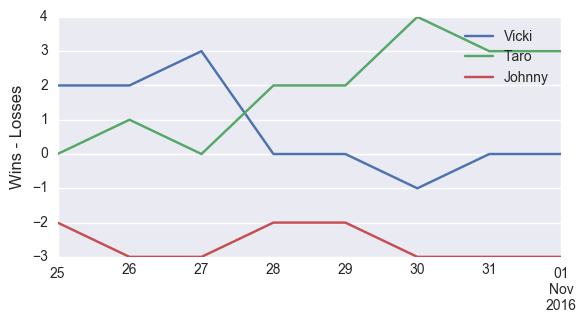
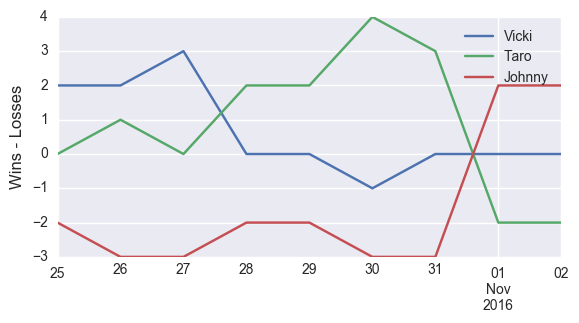
update 11/2

diff --git a/index.html b/index.html
@@ -35,32 +35,32 @@
 <a id="the-bet-is-on" class="anchor" href="#the-bet-is-on" aria-hidden="true"><span aria-hidden="true" class="octicon octicon-link"></span></a>The bet is on.</h1>
 
 <h1>
-<a id="current-winner-of-2016-17-season" class="anchor" href="#current-winner-of-2016-17-season" aria-hidden="true"><span aria-hidden="true" class="octicon octicon-link"></span></a>Current winner of 2016-17 Season (as of 11/1/2016):</h1>
+<a id="current-winner-of-2016-17-season" class="anchor" href="#current-winner-of-2016-17-season" aria-hidden="true"><span aria-hidden="true" class="octicon octicon-link"></span></a>Current winner of 2016-17 Season (as of 11/2/2016):</h1>
 
 <h2>
-<a id="none" class="anchor" href="#none" aria-hidden="true"><span aria-hidden="true" class="octicon octicon-link"></span></a><strong>Taro</strong>
+<a id="none" class="anchor" href="#none" aria-hidden="true"><span aria-hidden="true" class="octicon octicon-link"></span></a><strong>Johnny</strong>
 </h2>
 
 <h2>
 <a id="johnny" class="anchor" href="#johnny" aria-hidden="true"><span aria-hidden="true" class="octicon octicon-link"></span></a>Johnny</h2>
 
-<p>Wins: 13<br>
-Losses: 16<br>
-Remaining wins available: 672</p>
+<p>Wins: 19<br>
+Losses: 17<br>
+Remaining wins available: 665</p>
 
 <h2>
 <a id="taro" class="anchor" href="#taro" aria-hidden="true"><span aria-hidden="true" class="octicon octicon-link"></span></a>Taro</h2>
 
 <p>Wins: 17<br>
-Losses: 14<br>
-Remaining wins available: 666</p>
+Losses: 19<br>
+Remaining wins available: 661</p>
 
 <h2>
 <a id="vicki" class="anchor" href="#vicki" aria-hidden="true"><span aria-hidden="true" class="octicon octicon-link"></span></a>Vicki</h2>
 
-<p>Wins: 15<br>
-Losses: 15<br>
-Remaining wins available: 670</p>
+<p>Wins: 18<br>
+Losses: 18<br>
+Remaining wins available: 664</p>
 
 <img src='pythoncode/win_percent.png' alt='Winning Percentage Over Time'>
 <h1>
